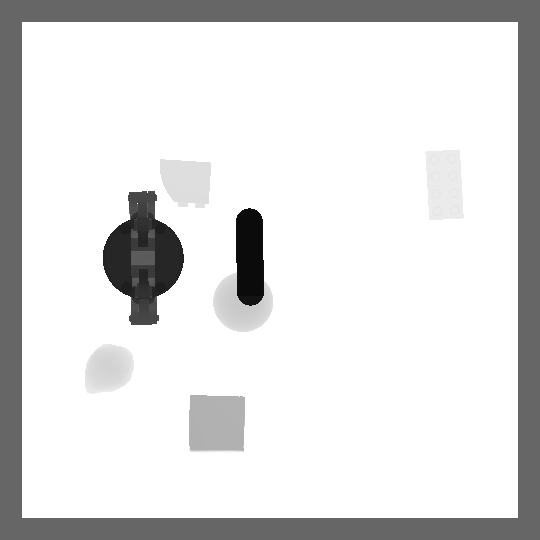
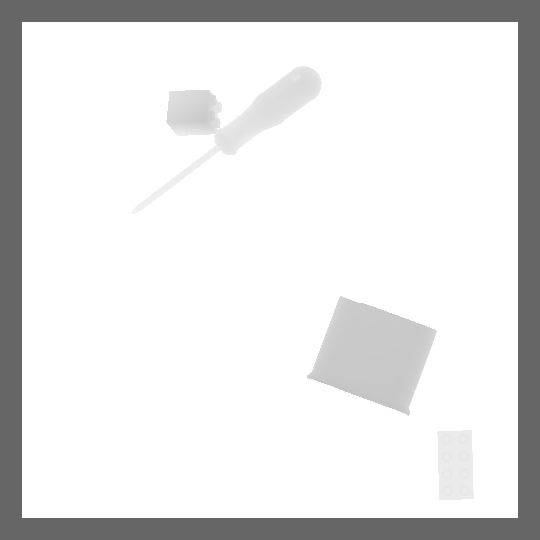
Faaaaaaack

diff --git a/Vlad-AILAB/utils_robots/tasks/pick_place_task.py b/Vlad-AILAB/utils_robots/tasks/pick_place_task.py
@@ -313,7 +313,7 @@ class UR5ePickPlace(PickPlace):
         rgb_image, depth_image = self.get_rgb_depth_images(self.camera)
         pointcloud = self.pointcloud_camera.get_pointcloud()
         # Display the pointcloud for debugging
-        
+
         height_map = self.get_height_map(
             rgb_image=rgb_image,
             depth_image=depth_image,
@@ -321,10 +321,11 @@ class UR5ePickPlace(PickPlace):
             camera=self.camera,
             position=end_effector_position,
         )
+
         if goal_object_name is not None:
             goal_mask = self.get_semantic_mask(self.camera, goal_object_name)
         observation_dict = dict()
-       
+
         if goal_object_name is not None:
             observation_dict = {
                 "joint_positions": joints_state.positions,
@@ -614,3 +615,103 @@ class UR5ePickPlace(PickPlace):
         pointcloud = frame["pointcloud"]
 
         return pointcloud
+
+    def pixel_to_robot_space(
+        self,
+        u: int,
+        v: int,
+        camera: Camera,
+        display: bool = True,
+        rgb_image: Optional[np.ndarray] = None,
+        depth_image: Optional[np.ndarray] = None,
+        heightmap: Optional[np.ndarray] = None,
+    ) -> np.ndarray:
+        """Convert pixel coordinates from orthographic camera view to robot space coordinates.
+
+        Args:
+            u (int): Pixel x-coordinate in the image
+            v (int): Pixel y-coordinate in the image
+            camera (Camera): The camera object to use for the conversion
+            display (bool): Whether to display the image with the selected pixel marked
+            rgb_image (Optional[np.ndarray]): Pre-captured RGB image
+            depth_image (Optional[np.ndarray]): Pre-captured depth image
+
+        Returns:
+            np.ndarray: 3D point in robot space coordinates [x, y, z]
+        
+        """
+        x, y, z = 0, 0, 0.14
+        # Get current camera frame if not provided
+        if rgb_image is None or depth_image is None:
+            frame = camera.get_current_frame()
+            rgb_image = frame["rgba"][:, :, :3]
+            depth_image = camera.get_depth()
+
+        # Get camera parameters
+        cam_position, cam_orientation = camera.get_local_pose()
+
+        # Get image dimensions
+        height, width = rgb_image.shape[:2]
+
+        # Get aperture sizes
+        horizontal_aperture = camera.get_horizontal_aperture()
+        vertical_aperture = camera.get_vertical_aperture()
+
+        # For orthographic projection with camera looking down:
+        # The camera's X axis in image maps to Y in world space
+        # The camera's Y axis in image maps to X in world space
+        # This is due to the camera's orientation quaternion [0.5, -0.5, 0.5, 0.5]
+        world_y = ((u / width) - 0.5) * horizontal_aperture
+        world_x = cam_position[0] + ((v / height) - 0.5) * vertical_aperture
+
+        # Get the depth at this pixel
+        for point in heightmap:
+            if point[0] == world_x and point[1] == world_y:
+                z = point[2]
+                break
+
+        # Create point in world space
+        point_world = np.array([world_x, world_y, z])
+
+        # Log for debugging
+        carb.log_warn(f"Camera position: {cam_position}")
+        carb.log_warn(f"Pixel coordinates (u,v): ({u}, {v})")
+        carb.log_warn(f"World coordinates: {point_world}")
+
+        # Display the image with selected pixel if requested
+        if display:
+            display_img = rgb_image.copy()
+
+            # Draw a red circle at the selected pixel
+            cv2.circle(display_img, (u, v), 5, (255, 0, 0), -1)
+
+            # Draw coordinate axes for reference
+            center = (width // 2, height // 2)
+            axis_length = 50
+            # X-axis in magenta (corresponds to vertical in image)
+            cv2.line(
+                display_img,
+                center,
+                (center[0], center[1] + axis_length),
+                (255, 0, 255),
+                2,
+            )
+            # Y-axis in green (corresponds to horizontal in image)
+            cv2.line(
+                display_img,
+                center,
+                (center[0] + axis_length, center[1]),
+                (0, 255, 0),
+                2,
+            )
+
+            plt.figure(figsize=(10, 10))
+            plt.imshow(display_img)
+            plt.title(
+                f"Selected Pixel (u={u}, v={v})\nWorld Coordinates: [{point_world[0]:.3f}, {point_world[1]:.3f}, {point_world[2]:.3f}]"
+            )
+            plt.axis("on")
+            plt.grid(True)
+            plt.show()
+
+        return point_world

diff --git a/Vlad-AILAB/dev_utils/point_cloud_utils.py b/Vlad-AILAB/dev_utils/point_cloud_utils.py
@@ -5,6 +5,7 @@ import carb
 from typing import Optional
 import os
 
+
 def save_point_cloud_as_png(point_cloud, filename, projection="xy"):
     """
     Save a 2D projection of the point cloud as a .png image.
@@ -217,50 +218,51 @@ def get_heightmap(
     cam_pose = np.array(cam_pose)
     carb.log_warn(f"Camera pose matrix:\n{cam_pose}")
     carb.log_warn(f"Camera intrinsics matrix:\n{cam_intrinsics}")
-    
+
     # Transform 3D point cloud from camera coordinates to robot coordinates
     pointcloud_robot = pointcloud
 
     # Get point cloud bounds
     x_min, x_max = np.min(pointcloud_robot[:, 0]), np.max(pointcloud_robot[:, 0])
     y_min, y_max = np.min(pointcloud_robot[:, 1]), np.max(pointcloud_robot[:, 1])
-    
+
     # Create grid coordinates based on point cloud bounds
     x_coords = np.arange(x_min, x_max + heightmap_resolution, heightmap_resolution)
     y_coords = np.arange(y_min, y_max + heightmap_resolution, heightmap_resolution)
-    
+
     # Create meshgrid for the XY plane
     xx, yy = np.meshgrid(x_coords, y_coords)
     heightmap = np.zeros_like(xx)
-    
+
     # For each point in the point cloud, find its corresponding cell in the grid
     x_indices = ((pointcloud_robot[:, 0] - x_min) / heightmap_resolution).astype(int)
     y_indices = ((pointcloud_robot[:, 1] - y_min) / heightmap_resolution).astype(int)
-    
+
     # For each valid cell, take the maximum z-value of points that fall into it
     for i in range(len(pointcloud_robot)):
         if 0 <= x_indices[i] < len(x_coords) and 0 <= y_indices[i] < len(y_coords):
             current_height = heightmap[y_indices[i], x_indices[i]]
             if current_height == 0 or pointcloud_robot[i, 2] > current_height:
                 heightmap[y_indices[i], x_indices[i]] = pointcloud_robot[i, 2]
-    
+
     # Display the projected heightmap
     plt.figure(figsize=(10, 10))
-    plt.imshow(heightmap, cmap='viridis', origin='lower')
-    plt.colorbar(label='Height (Z)')
-    plt.xlabel('X')
-    plt.ylabel('Y')
-    plt.title('Projected Heightmap')
+    plt.imshow(heightmap, cmap="viridis", origin="lower")
+    plt.colorbar(label="Height (Z)")
+    plt.xlabel("X")
+    plt.ylabel("Y")
+    plt.title("Projected Heightmap")
     plt.show()
-    
+
     # Create point cloud representation of the heightmap
     non_zero_mask = heightmap != 0
     projected_points = np.zeros((np.sum(non_zero_mask), 3))
     projected_points[:, 0] = xx[non_zero_mask]
     projected_points[:, 1] = yy[non_zero_mask]
     projected_points[:, 2] = heightmap[non_zero_mask]
-    
+
     return projected_points
+
 
 def display_heightmap(heightmap, name: Optional[str] = None):
     plt.figure(figsize=(10, 10))
@@ -274,35 +276,38 @@ def display_heightmap(heightmap, name: Optional[str] = None):
         plt.title(name)
     plt.show()
 
+
 def get_height_at_position(heightmap_points, query_x, query_y, radius=0.01):
     """Get the height (z-value) at a specific x,y coordinate from a heightmap point cloud.
-    
+
     Args:
         heightmap_points: Nx3 array of points from the heightmap
         query_x: x-coordinate to query
         query_y: y-coordinate to query
         radius: radius to search for nearby points (in same units as heightmap)
-    
+
     Returns:
         float: Interpolated height at the query point. Returns None if no points found within radius.
     """
     # Calculate distances from query point to all heightmap points
     distances = np.sqrt(
-        (heightmap_points[:, 0] - query_x)**2 + 
-        (heightmap_points[:, 1] - query_y)**2
+        (heightmap_points[:, 0] - query_x) ** 2
+        + (heightmap_points[:, 1] - query_y) ** 2
     )
-    
+
     # Find points within the radius
     nearby_points = heightmap_points[distances < radius]
-    
+
     if len(nearby_points) == 0:
         return None
-    
+
     # Weight points by inverse distance
-    weights = 1 / (distances[distances < radius] + 1e-6)  # Add small epsilon to avoid division by zero
+    weights = 1 / (
+        distances[distances < radius] + 1e-6
+    )  # Add small epsilon to avoid division by zero
     weights = weights / np.sum(weights)  # Normalize weights
-    
+
     # Calculate weighted average height
     interpolated_height = np.sum(nearby_points[:, 2] * weights)
-    
+
     return interpolated_height

diff --git a/Vlad-AILAB/main_ure5.py b/Vlad-AILAB/main_ure5.py
@@ -1,5 +1,6 @@
 from unittest import skip
 from isaacsim import SimulationApp
+
 # Initialize the simulation application with a GUI
 simulation_app = SimulationApp({"headless": False})
 
@@ -116,43 +117,62 @@ print(
 )
 first_observation = None
 last_observation = None
+start_point = None
 
 while simulation_app.is_running():
     my_world.step(render=True)
     if my_world.is_playing():
         actions = None
         rgb_image, depth_image, distance_image = None, None, None
+
         if my_world.current_time_step_index == 0:
             my_world.reset()
             pick_and_place_controller.reset()
-            
+
             current_joint_positions = (my_ur5e.get_joint_positions(),)
             end_effector_offset = (np.array([0, 0, 0.9]),)
-        if my_world.current_time_step_index > 100:
-            actions = push_controller.forward(
-                push_start_position=np.array([0.5, 0, 0.14]),
-                push_end_position=np.array([0.55, 0.1, 0.14]),
-            )
+
         if first_observation is None and my_world.current_time_step_index > 100:
             first_observation = my_task.get_observations()
+            start_point = my_task.pixel_to_robot_space(
+                u=100,
+                v=100,
+                camera=camera_ortho,
+                display=True,
+                rgb_image=first_observation["rgb_image"],
+                depth_image=first_observation["depth_image"],
+                heightmap=first_observation["height_map"],
+            )
+            end_point = my_task.pixel_to_robot_space(
+                u=200,
+                v=200,
+                camera=camera_ortho,
+                rgb_image=first_observation["rgb_image"],
+                depth_image=first_observation["depth_image"],
+                heightmap=first_observation["height_map"],
+            )
+            cv2.imwrite(save_root_depth, first_observation["depth_image"])
+            cv2.imwrite(save_root_rgb, first_observation["rgb_image"])
+            if "goal_mask" in first_observation:
+                cv2.imwrite(save_root_semantic, first_observation["goal_mask"])
+
+        if start_point is not None and end_point is not None:
+            print(f"Start point: {start_point}, End point: {end_point}")
+            actions = push_controller.forward(
+                push_start_position=start_point,
+                push_end_position=end_point,
+            )
+
         if push_controller.is_done():
             print("Push done")
             last_observation = my_task.get_observations()
-            
+            cv2.imwrite(save_root_depth, last_observation["depth_image"])
+            cv2.imwrite(save_root_rgb, last_observation["rgb_image"])
+            if "goal_mask" in last_observation:
+                cv2.imwrite(save_root_semantic, last_observation["goal_mask"])
+
         if actions is not None:
             articulation_controller.apply_action(actions)
-            if first_observation is not None:
-                height_at_goal = first_observation["height_map"][250, 250]
-                print(f"Height at goal: {height_at_goal}")
+
 
 simulation_app.close()
-
-if last_observation is not None:
-    display_heightmap(last_observation["height_map"], "last_height_map")
-if first_observation is not None:
-    display_heightmap(first_observation["height_map"], "first_height_map")
-    # Save all the images
-    cv2.imwrite(save_root_depth, first_observation["depth_image"])
-    cv2.imwrite(save_root_rgb, first_observation["rgb_image"])
-    if "goal_mask" in first_observation: 
-        cv2.imwrite(save_root_semantic, first_observation["goal_mask"])
